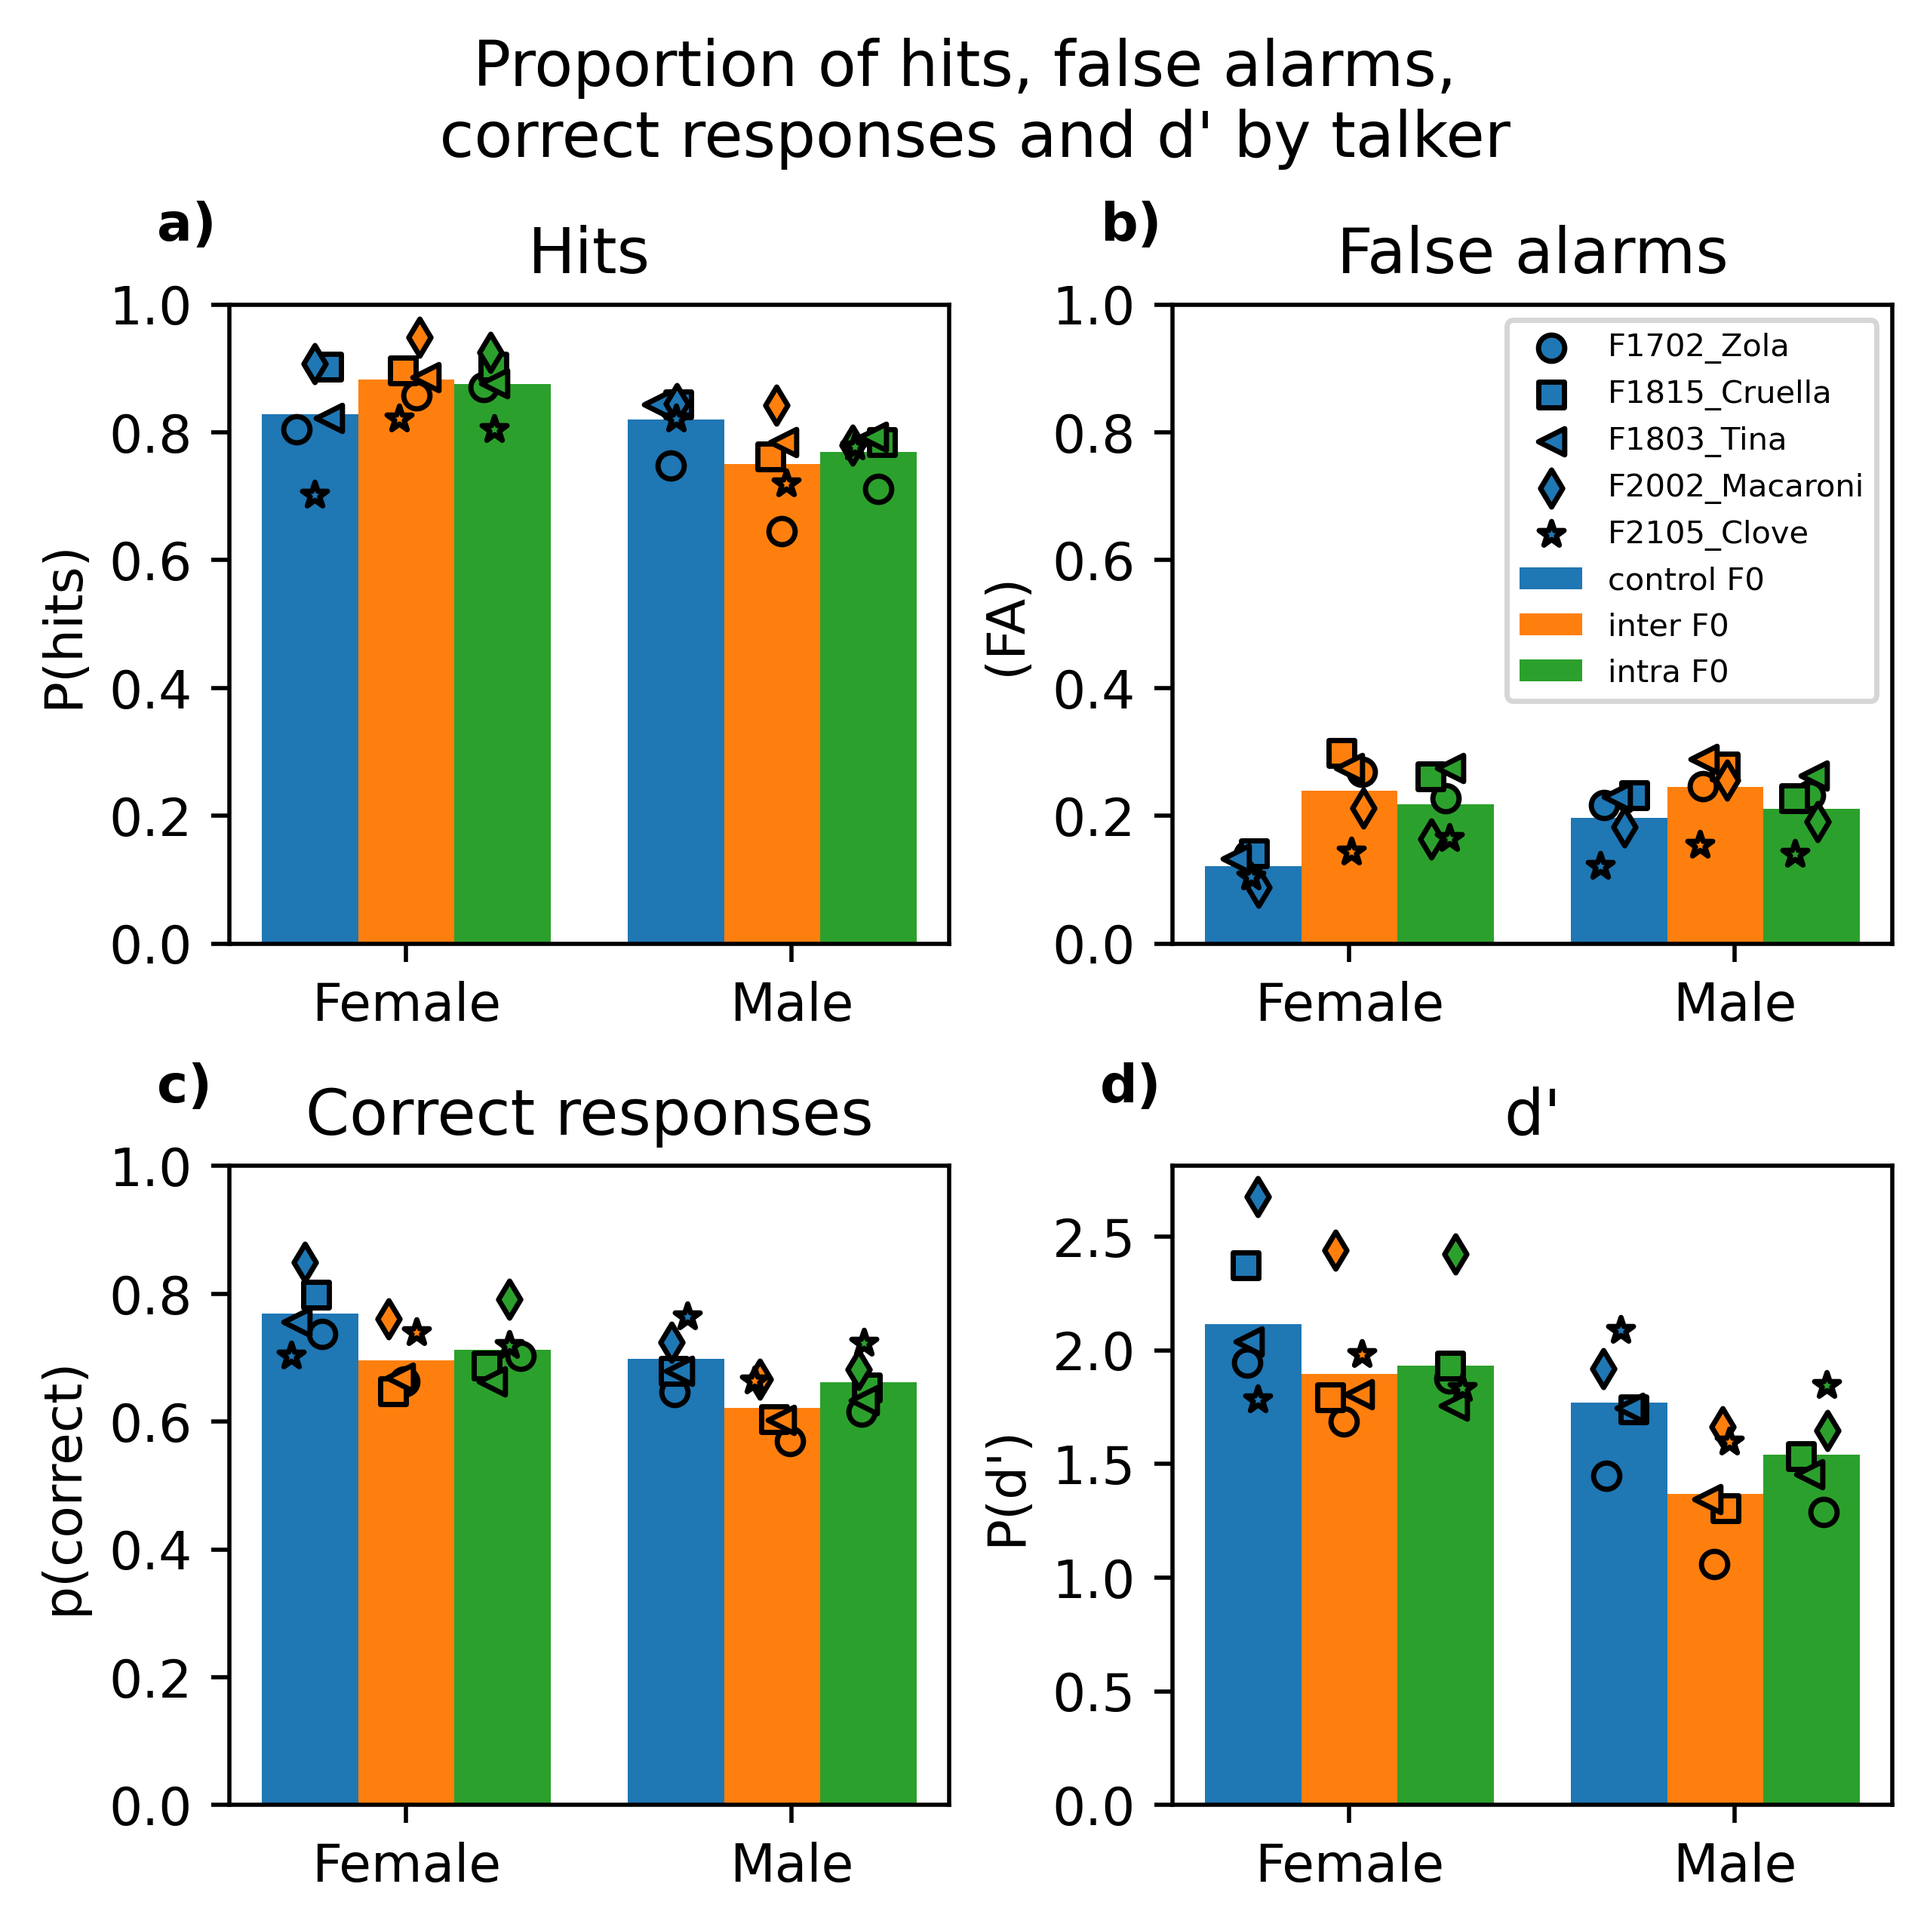
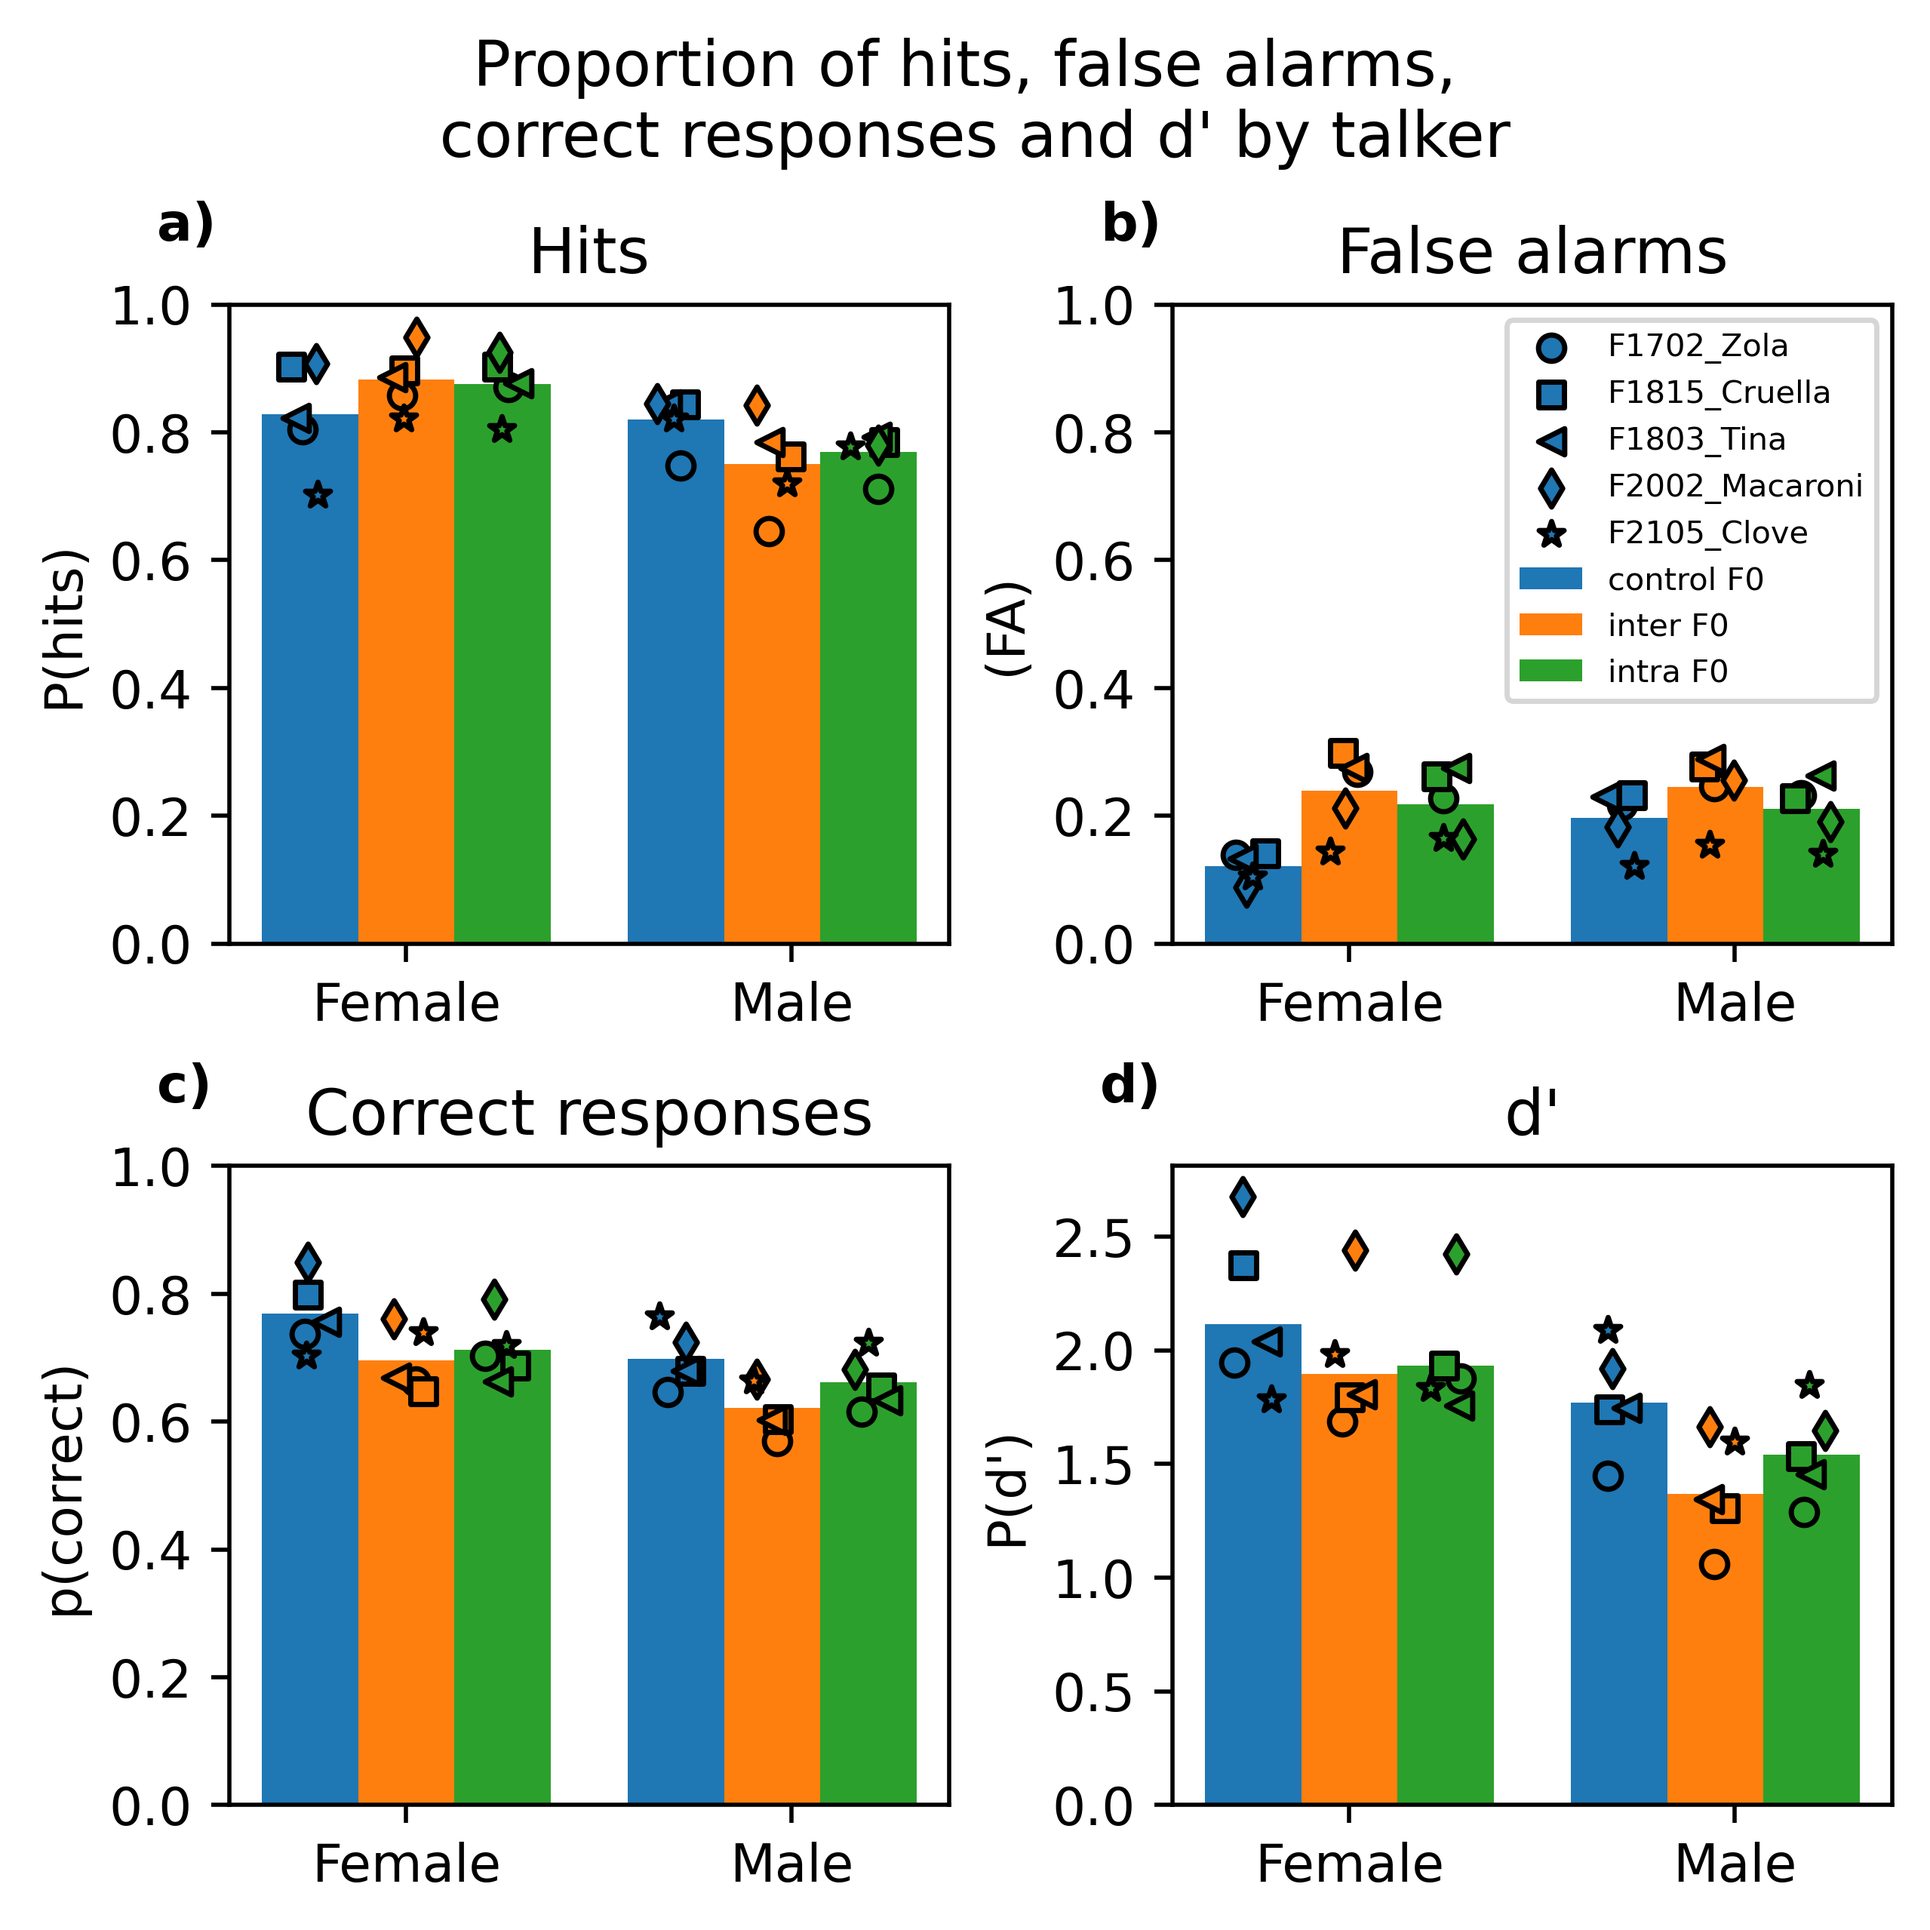
changing to plotting by F0 for swarmplot

diff --git a/helpers/behaviouralhelpersformodels.py b/helpers/behaviouralhelpersformodels.py
@@ -818,6 +818,7 @@ class behaviouralhelperscg():
             inter_trial_roving = []
             control_trial = []
             pitchoftarg = []
+            f0_list = []
             pitchofprecur = []
             talkerlist2 = np.empty(len(pitchshiftmat))
             falsealarm = np.empty(shape=(0, 0))
@@ -881,6 +882,15 @@ class behaviouralhelperscg():
                     targpos = int(targpos[0])
                     precur_pos = targpos - 1
 
+                    if chosentrial[targpos] == 8.0:
+                        f0_list.append(float(3))
+                    elif chosentrial[targpos] == 13.0:
+                        f0_list.append(float(1))
+                    elif chosentrial[targpos] == 1.0:
+                        f0_list.append(float(4))
+                    else:
+                        f0_list.append(float(chosentrial[targpos]))
+
                     if np.sum(newdata['dDurs'].values[i][:targpos]) / fs <= newdata['centreRelease'].values[i] - newdata['absentTime'].values[i] or newdata['response'].values[i] == 7:
                         if chosentrial[targpos] == 8.0:
                             pitchoftarg.append(float(3))
@@ -907,6 +917,7 @@ class behaviouralhelperscg():
                 except:
                     pitchoftarg.append(np.nan)
                     pitchofprecur.append(np.nan)
+                    f0_list.append(np.nan)
 
             falsealarm = falsealarm[~np.isnan(falsealarm)]
             correctresp = correctresp[~np.isnan(correctresp)]
@@ -927,6 +938,7 @@ class behaviouralhelperscg():
             newdata['stepval'] = stepval.tolist()
             newdata['timeToTarget'] = newdata['timeToTarget'] / 24414.0625
             newdata['AM'] = newdata['AM'].astype(int)
+            newdata['f0'] = f0_list
             newdata = newdata[newdata['distractor_or_fa'].values <= 57]
 
             cosinesimfemale = np.load('D:/Stimuli/cosinesimvectorfemale.npy')

diff --git a/models/runfalsealarmmodel.py b/models/runfalsealarmmodel.py
@@ -1158,9 +1158,11 @@ def plot_reaction_times_interandintra_swarm(ferrets):
     dict_by_ferret = {}
     #break down by ferret and pitch of target
     for ferret in ferrets:
+        dict_by_ferret[ferret]={}
         for pitch in [1, 2, 3, 4, 5]:
-            dict_by_ferret[ferret] = df_use.loc[df_use['ferret'] == ferret]
-            dict_by_ferret[ferret][pitch] = df_by_ferret[ferret].loc[df_by_ferret[ferret]['pitchoftarg'] == pitch]
+            df_ferret_inst= df_use[df_use['ferret'] == ferret]
+            dict_by_ferret[ferret][pitch]={}
+            dict_by_ferret[ferret][pitch] = df_ferret_inst[df_ferret_inst['pitchoftarg'] == pitch]
     for ferret in ferrets:
         df_by_ferret_f_control[ferret] = df_female_control.loc[df_female_control['ferret'] == ferret]
         df_by_ferret_f_rove[ferret] = df_female_rove.loc[df_female_rove['ferret'] == ferret]
@@ -1183,7 +1185,7 @@ def plot_reaction_times_interandintra_swarm(ferrets):
             sns.swarmplot(dict_by_ferret[ferret][pitch]['realRelReleaseTimes'], color=colorlist[count], label=pitchlist[count])
             count += 1
 
-        ax_dict[str(ferret)].set_title('Reaction times for ' + str(ferret_labels[ferret]), fontsize=12)
+        ax_dict[str(ferret)].set_title('Reaction times for ' + str(ferret_labels[ferret]), alpha =0.5, fontsize=12)
         if ferret == 0:
             ax_dict[str(ferret)].legend(fontsize=8)
         ax_dict[str(ferret)].set_xlabel('reaction time relative \n to target presentation (s)', fontsize=10)

diff --git a/models/plotstatsacrossanimals.py b/models/plotstatsacrossanimals.py
@@ -269,7 +269,7 @@ def run_stats_calc_by_pitch(df, ferrets, stats_dict, pitch_param = 'inter_trial_
 
         for pitch in pitch_list:
             selected_ferret_talker = selected_ferret[selected_ferret['pitchoftarg'] == pitch]
-            selected_ferret_all_talker = selected_ferret_all[selected_ferret_all['pitchoftarg'] == pitch]
+            selected_ferret_all_talker = selected_ferret_all[selected_ferret_all['f0'] == pitch]
 
             selected_ferret_talker_hitrate = selected_ferret_talker[selected_ferret_talker['response'] != 5]
 
